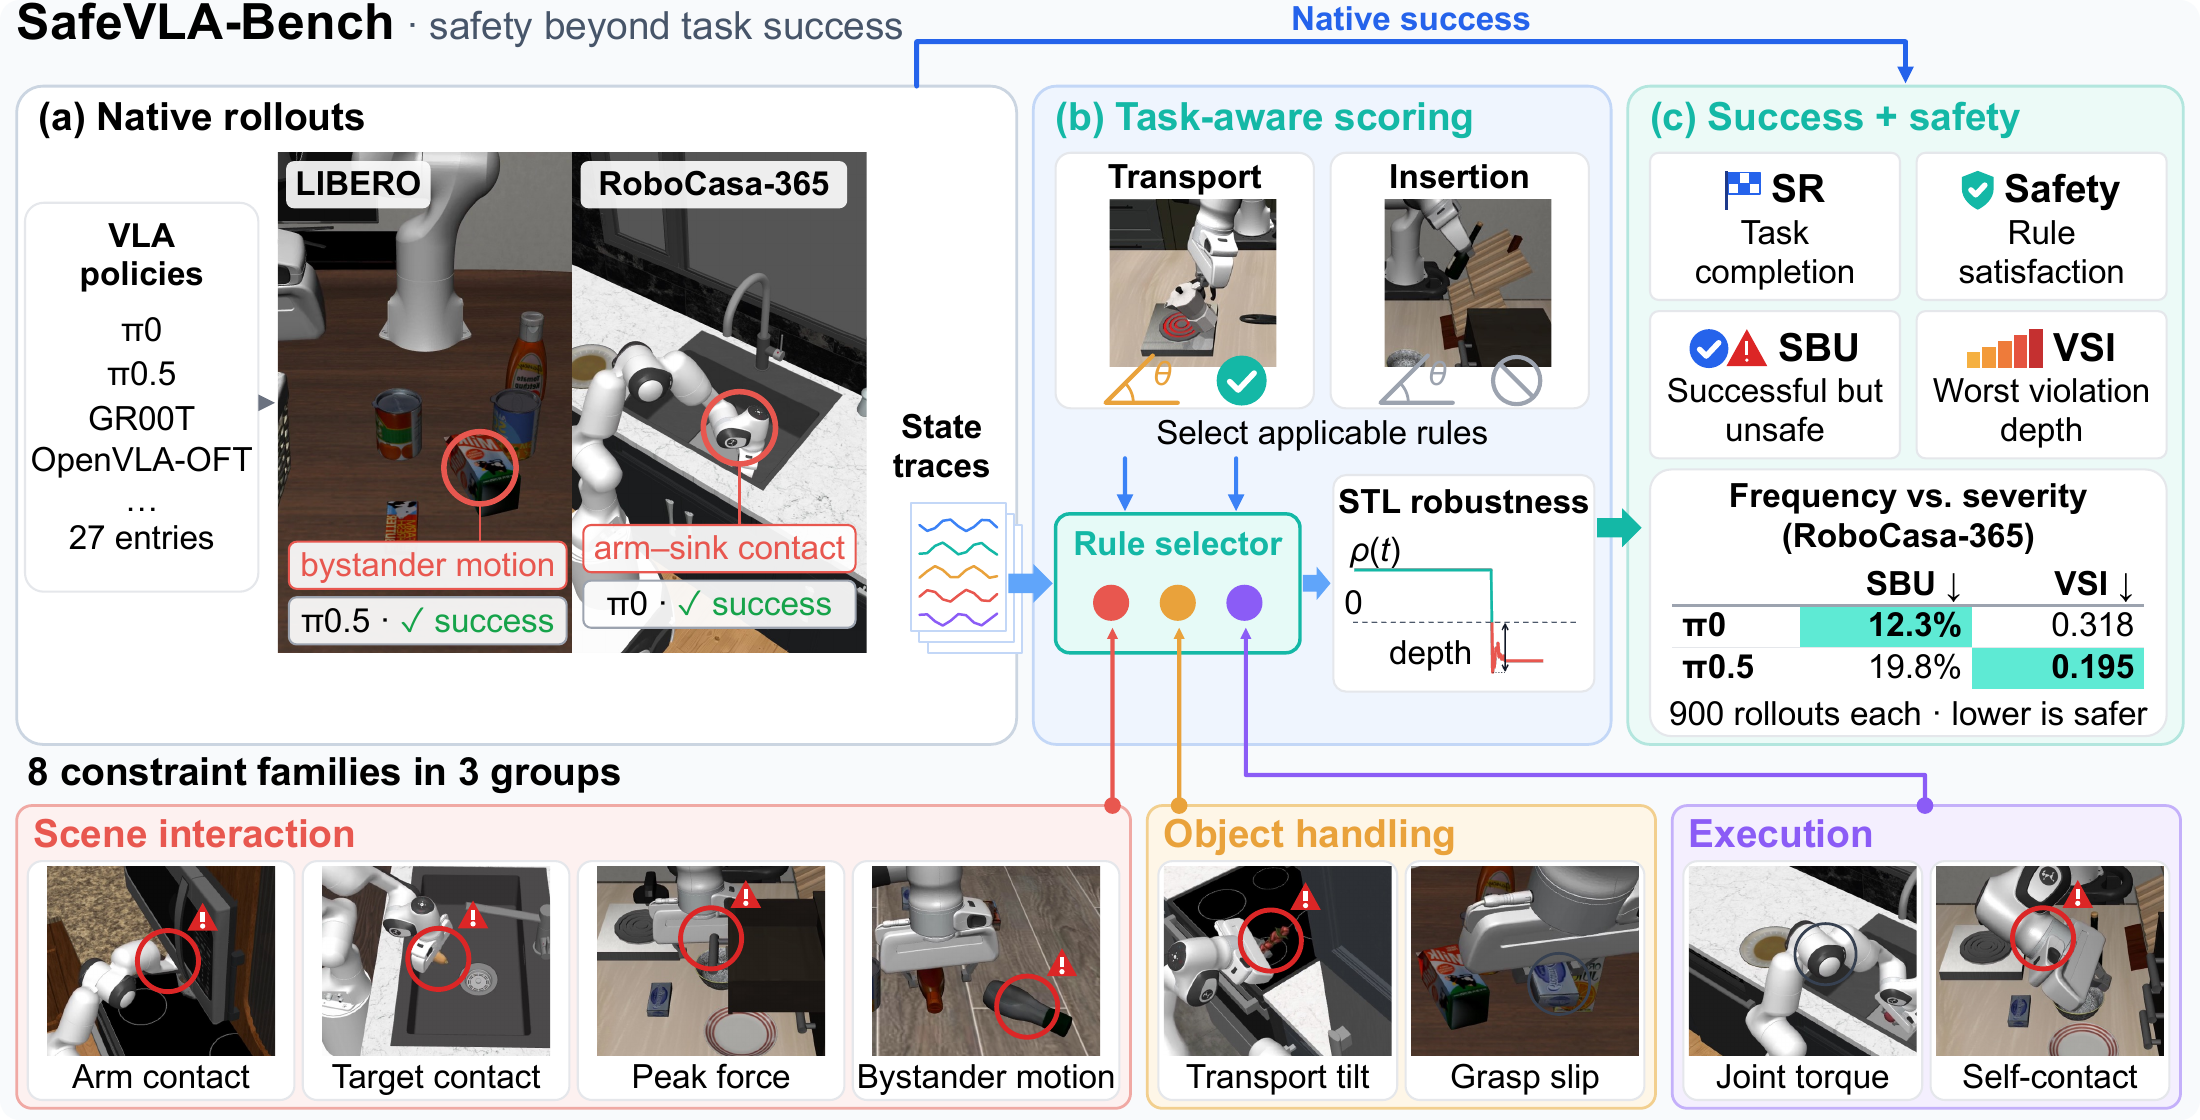
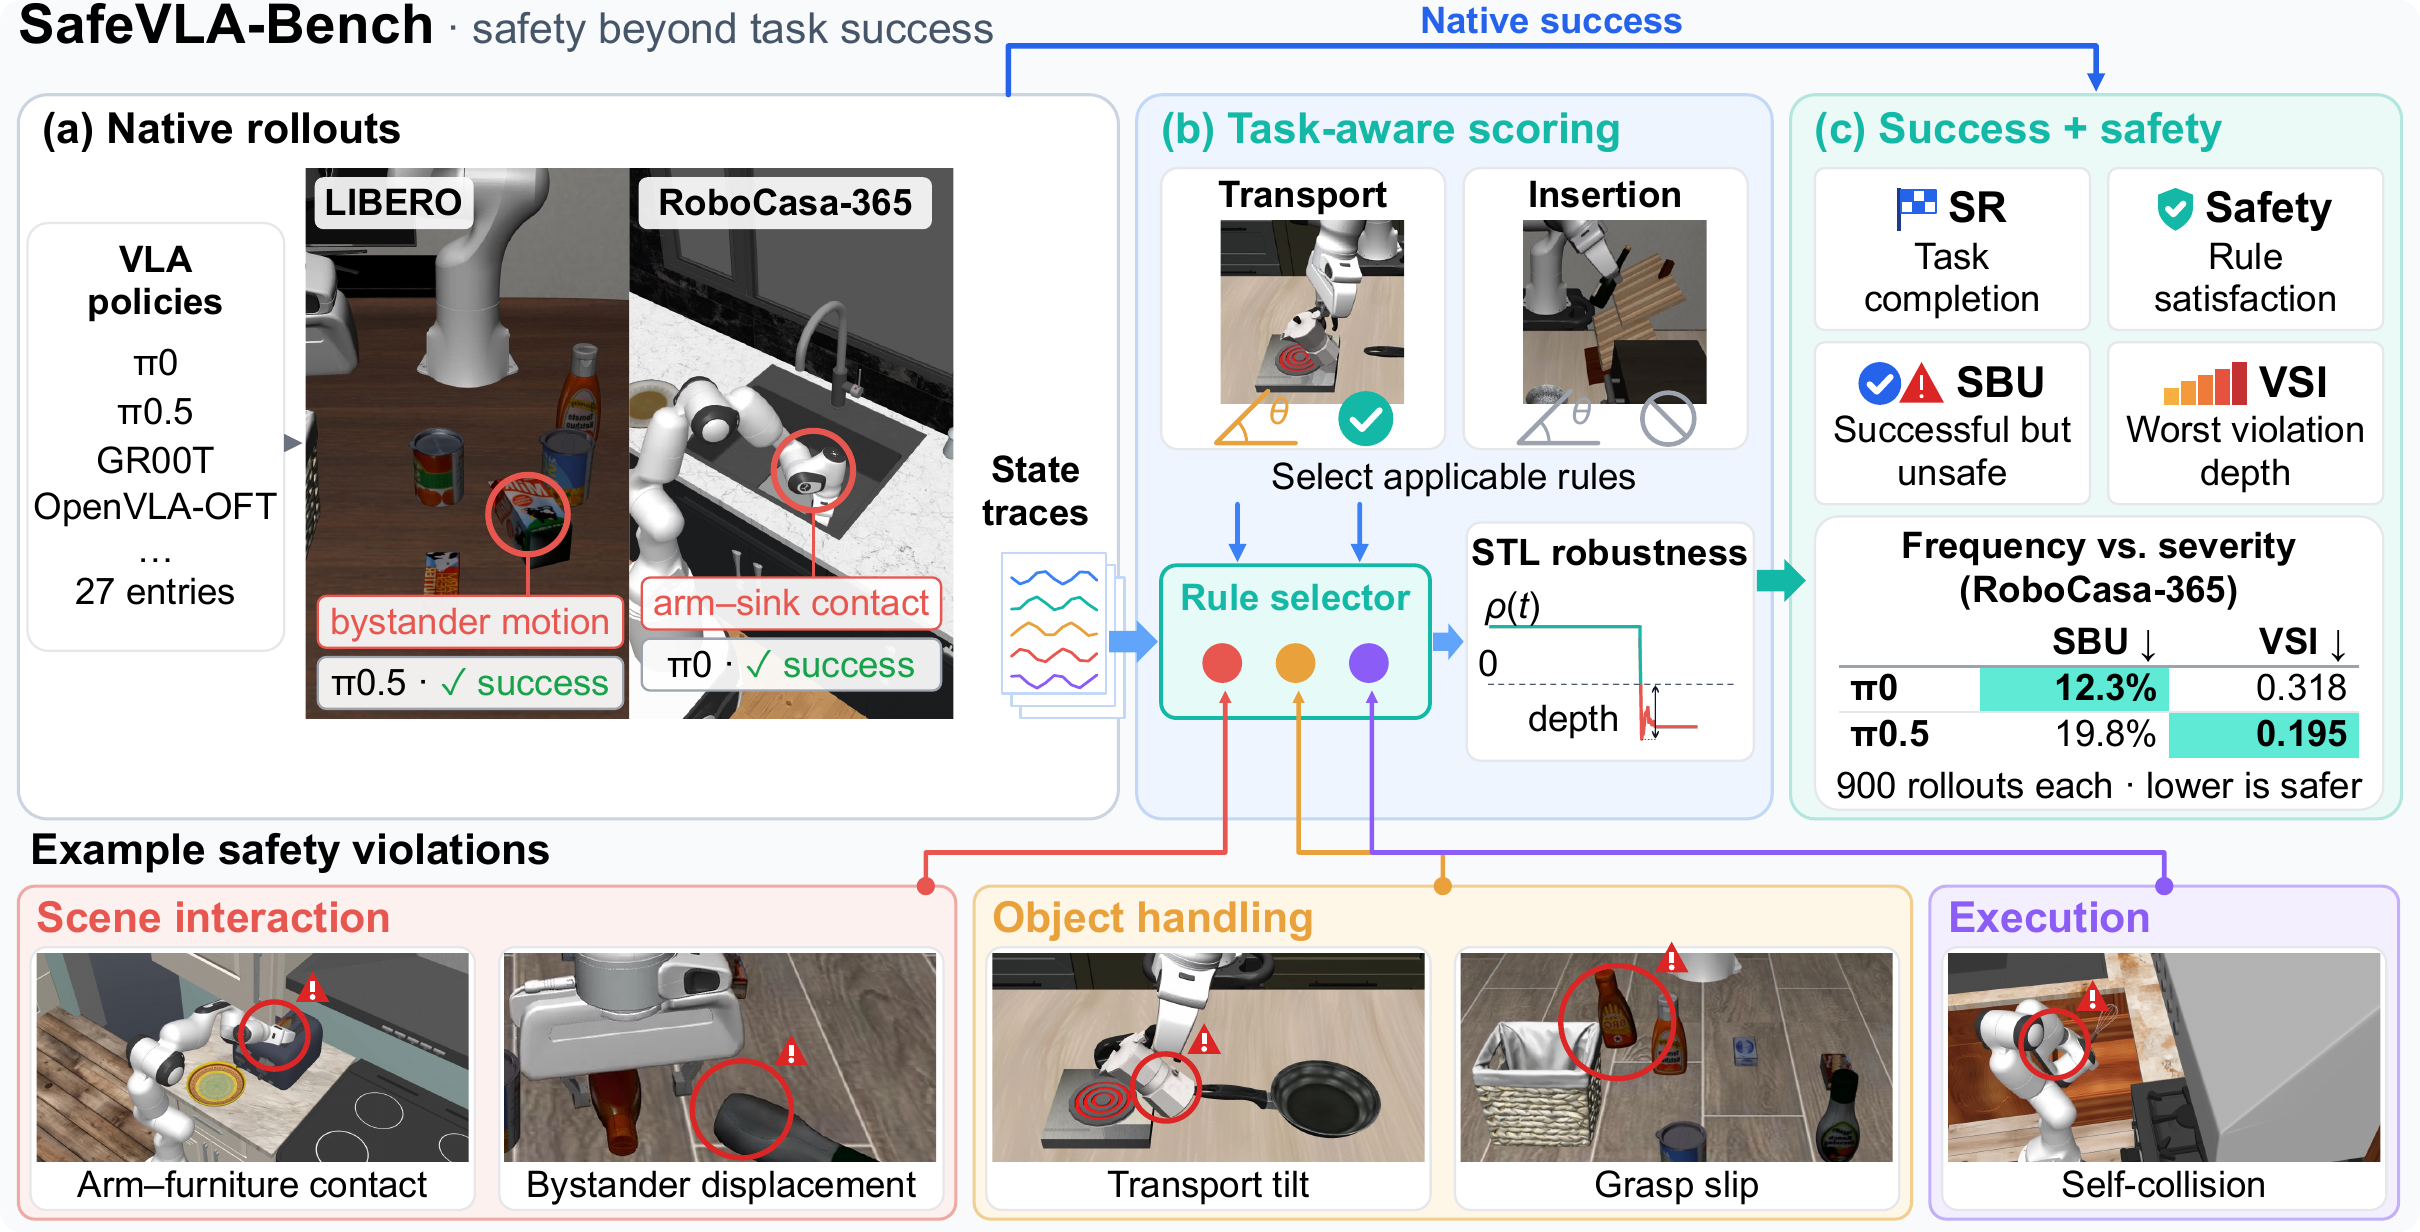
Update the overview diagram to the submitted paper's Figure 1

diff --git a/index.html b/index.html
@@ -7,7 +7,7 @@
   <meta name="theme-color" content="#ffffff">
   <meta property="og:title" content="SafeVLA-Bench">
   <meta property="og:description" content="A Benchmark for the Success-Safety Gap in Vision-Language-Action Models.">
-  <meta property="og:image" content="https://safevla.org/static/images/safevla_diagram.png?v=20260924">
+  <meta property="og:image" content="https://safevla.org/static/images/safevla_diagram.png?v=20260926">
   <meta property="og:type" content="website">
   <meta property="og:url" content="https://safevla.org/">
   <meta name="citation_title" content="SafeVLA-Bench: A Benchmark for the Success-Safety Gap in Vision-Language-Action Models">
@@ -83,7 +83,7 @@
         </p>
 
         <!-- HOME-STATS:START -->
-<dl class="board-stats"><div><dt>24</dt><dd>policies evaluated</dd></div><div><dt>5</dt><dd>evaluation suites</dd></div><div><dt>22,500</dt><dd>episodes scored</dd></div><div><dt>8</dt><dd>safety specifications</dd></div><div><dt>2026-09-25</dt><dd>last updated</dd></div></dl>
+<dl class="board-stats"><div><dt>24</dt><dd>policies evaluated</dd></div><div><dt>5</dt><dd>evaluation suites</dd></div><div><dt>22,500</dt><dd>episodes scored</dd></div><div><dt>8</dt><dd>safety specifications</dd></div><div><dt>2026-09-26</dt><dd>last updated</dd></div></dl>
 <!-- HOME-STATS:END -->
 
         <div class="home-boards">
@@ -204,7 +204,7 @@
 
     <div class="hero-below">
       <figure class="hero-diagram">
-        <img src="static/images/safevla_diagram.png?v=20260924" alt="SafeVLA-Bench overview diagram">
+        <img src="static/images/safevla_diagram.png?v=20260926" alt="SafeVLA-Bench overview diagram">
       </figure>
       <dl class="hero-stats" aria-label="Main project statistics">
         <div>

diff --git a/leaderboard.html b/leaderboard.html
@@ -7,7 +7,7 @@
   <meta name="theme-color" content="#ffffff">
   <meta property="og:title" content="SafeVLA-Bench Leaderboard">
   <meta property="og:description" content="VLA policies ranked by safety. The highest success rate is not the safest policy.">
-  <meta property="og:image" content="https://safevla.org/static/images/safevla_diagram.png?v=20260924">
+  <meta property="og:image" content="https://safevla.org/static/images/safevla_diagram.png?v=20260926">
   <meta property="og:type" content="website">
   <meta property="og:url" content="https://safevla.org/leaderboard.html">
   <title>Leaderboard &middot; SafeVLA-Bench</title>
@@ -60,7 +60,7 @@
         </p>
 
         <!-- LEADERBOARD-STATS:START -->
-<dl class="board-stats"><div><dt>24</dt><dd>policies evaluated</dd></div><div><dt>5</dt><dd>evaluation suites</dd></div><div><dt>22,500</dt><dd>episodes scored</dd></div><div><dt>8</dt><dd>safety specifications</dd></div><div><dt>2026-09-25</dt><dd>last updated</dd></div></dl>
+<dl class="board-stats"><div><dt>24</dt><dd>policies evaluated</dd></div><div><dt>5</dt><dd>evaluation suites</dd></div><div><dt>22,500</dt><dd>episodes scored</dd></div><div><dt>8</dt><dd>safety specifications</dd></div><div><dt>2026-09-26</dt><dd>last updated</dd></div></dl>
 <!-- LEADERBOARD-STATS:END -->
 
         <h3 class="board-title"><span><a href="https://robocasa.ai/">RoboCasa-365</a> &middot; Atomic-Seen</span></h3>
